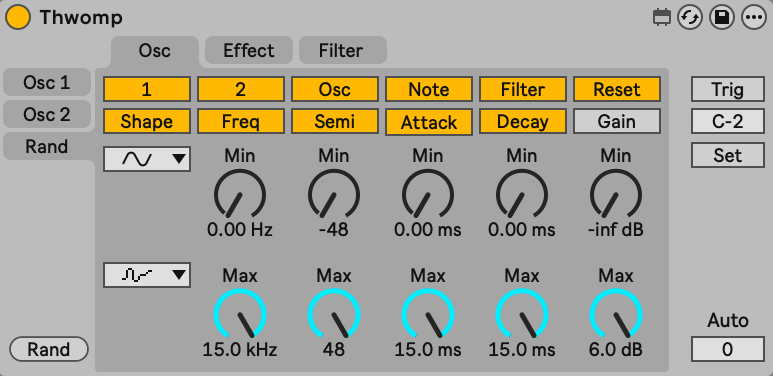
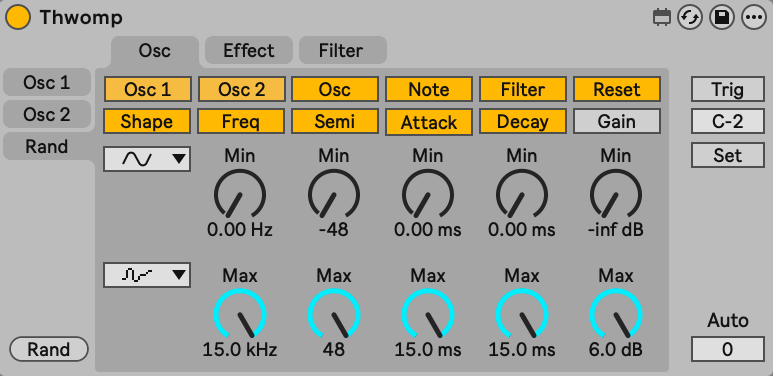
Update label

Changed region(s): [[0.1242, 0.2048, 0.3726, 0.2633]]

diff --git a/README.md b/README.md
@@ -115,8 +115,8 @@ Presets are available either when opening in Max directly, or by choosing `Edit 
 
 #### Toggles
 
-- **1:** Toggle whether to randomize **Osc 1**
-- **2:** Toggle whether to randomize **Osc 2**
+- **Osc 1:** Toggle whether to randomize **Osc 1**
+- **Osc 2:** Toggle whether to randomize **Osc 2**
 - **Osc:** Toggle whether to randomize **Osc**
 - **Note:** Toggle whether to randomize **Note**
 - **Filter:** Toggle whether to randomize **Filter**